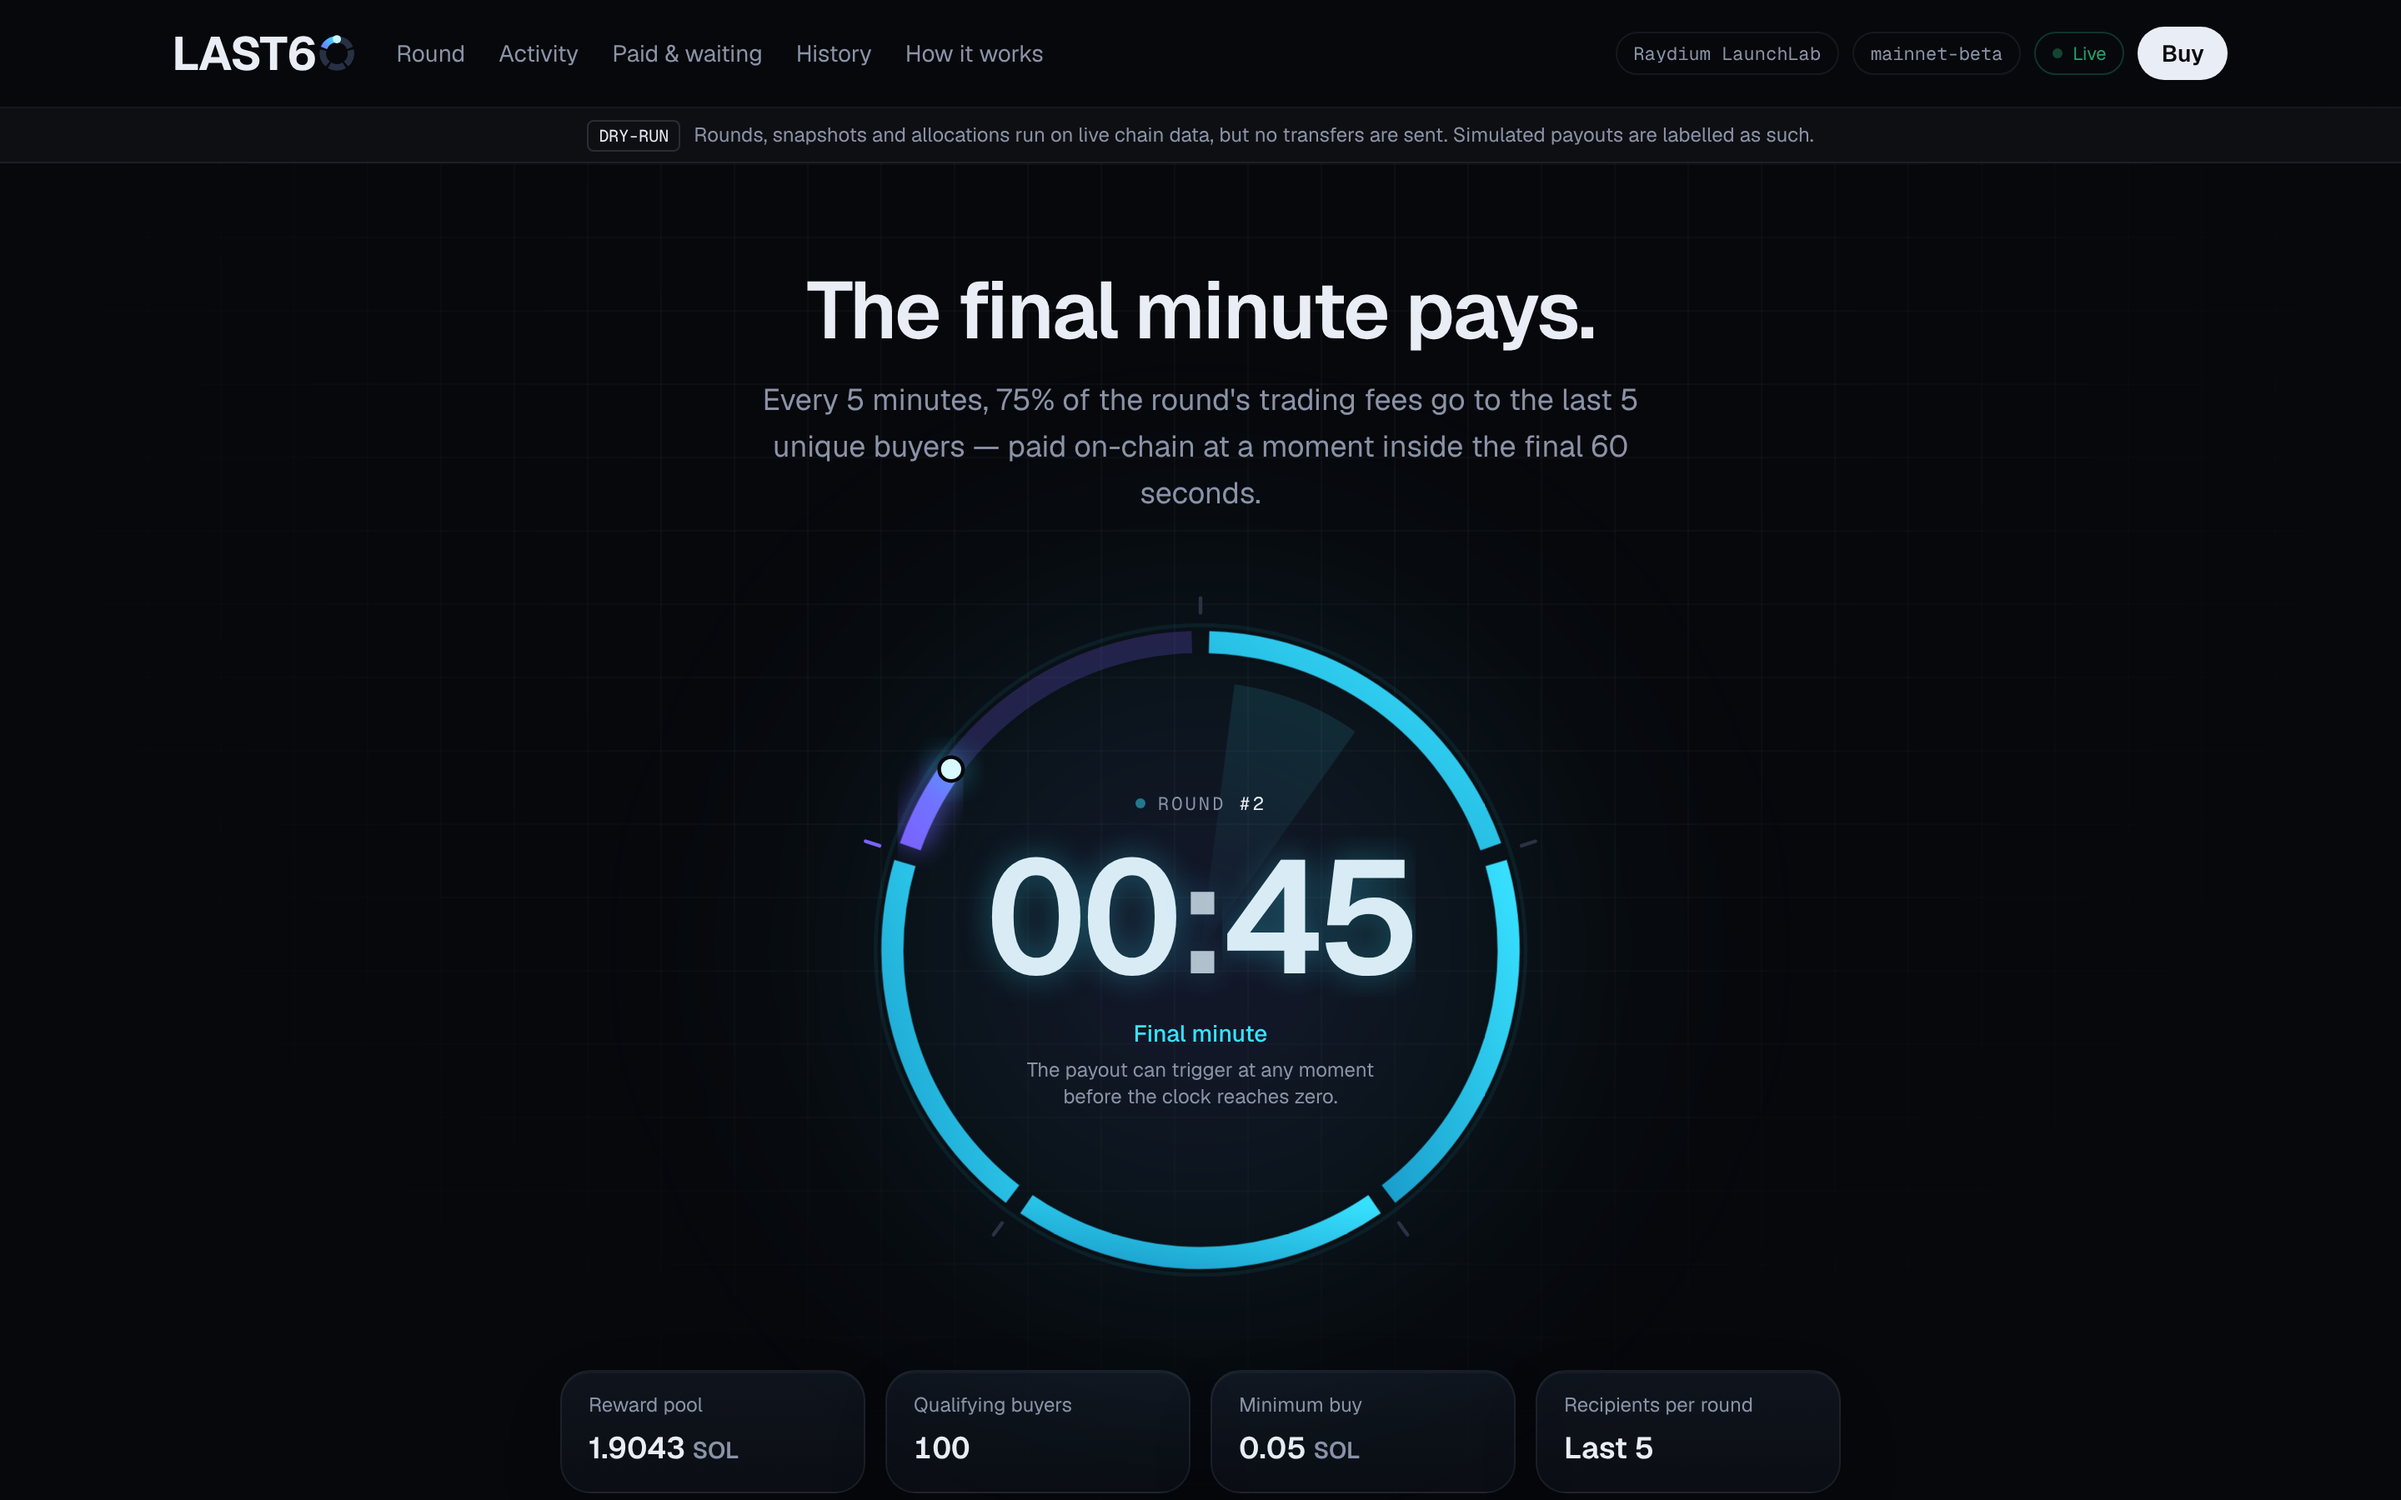
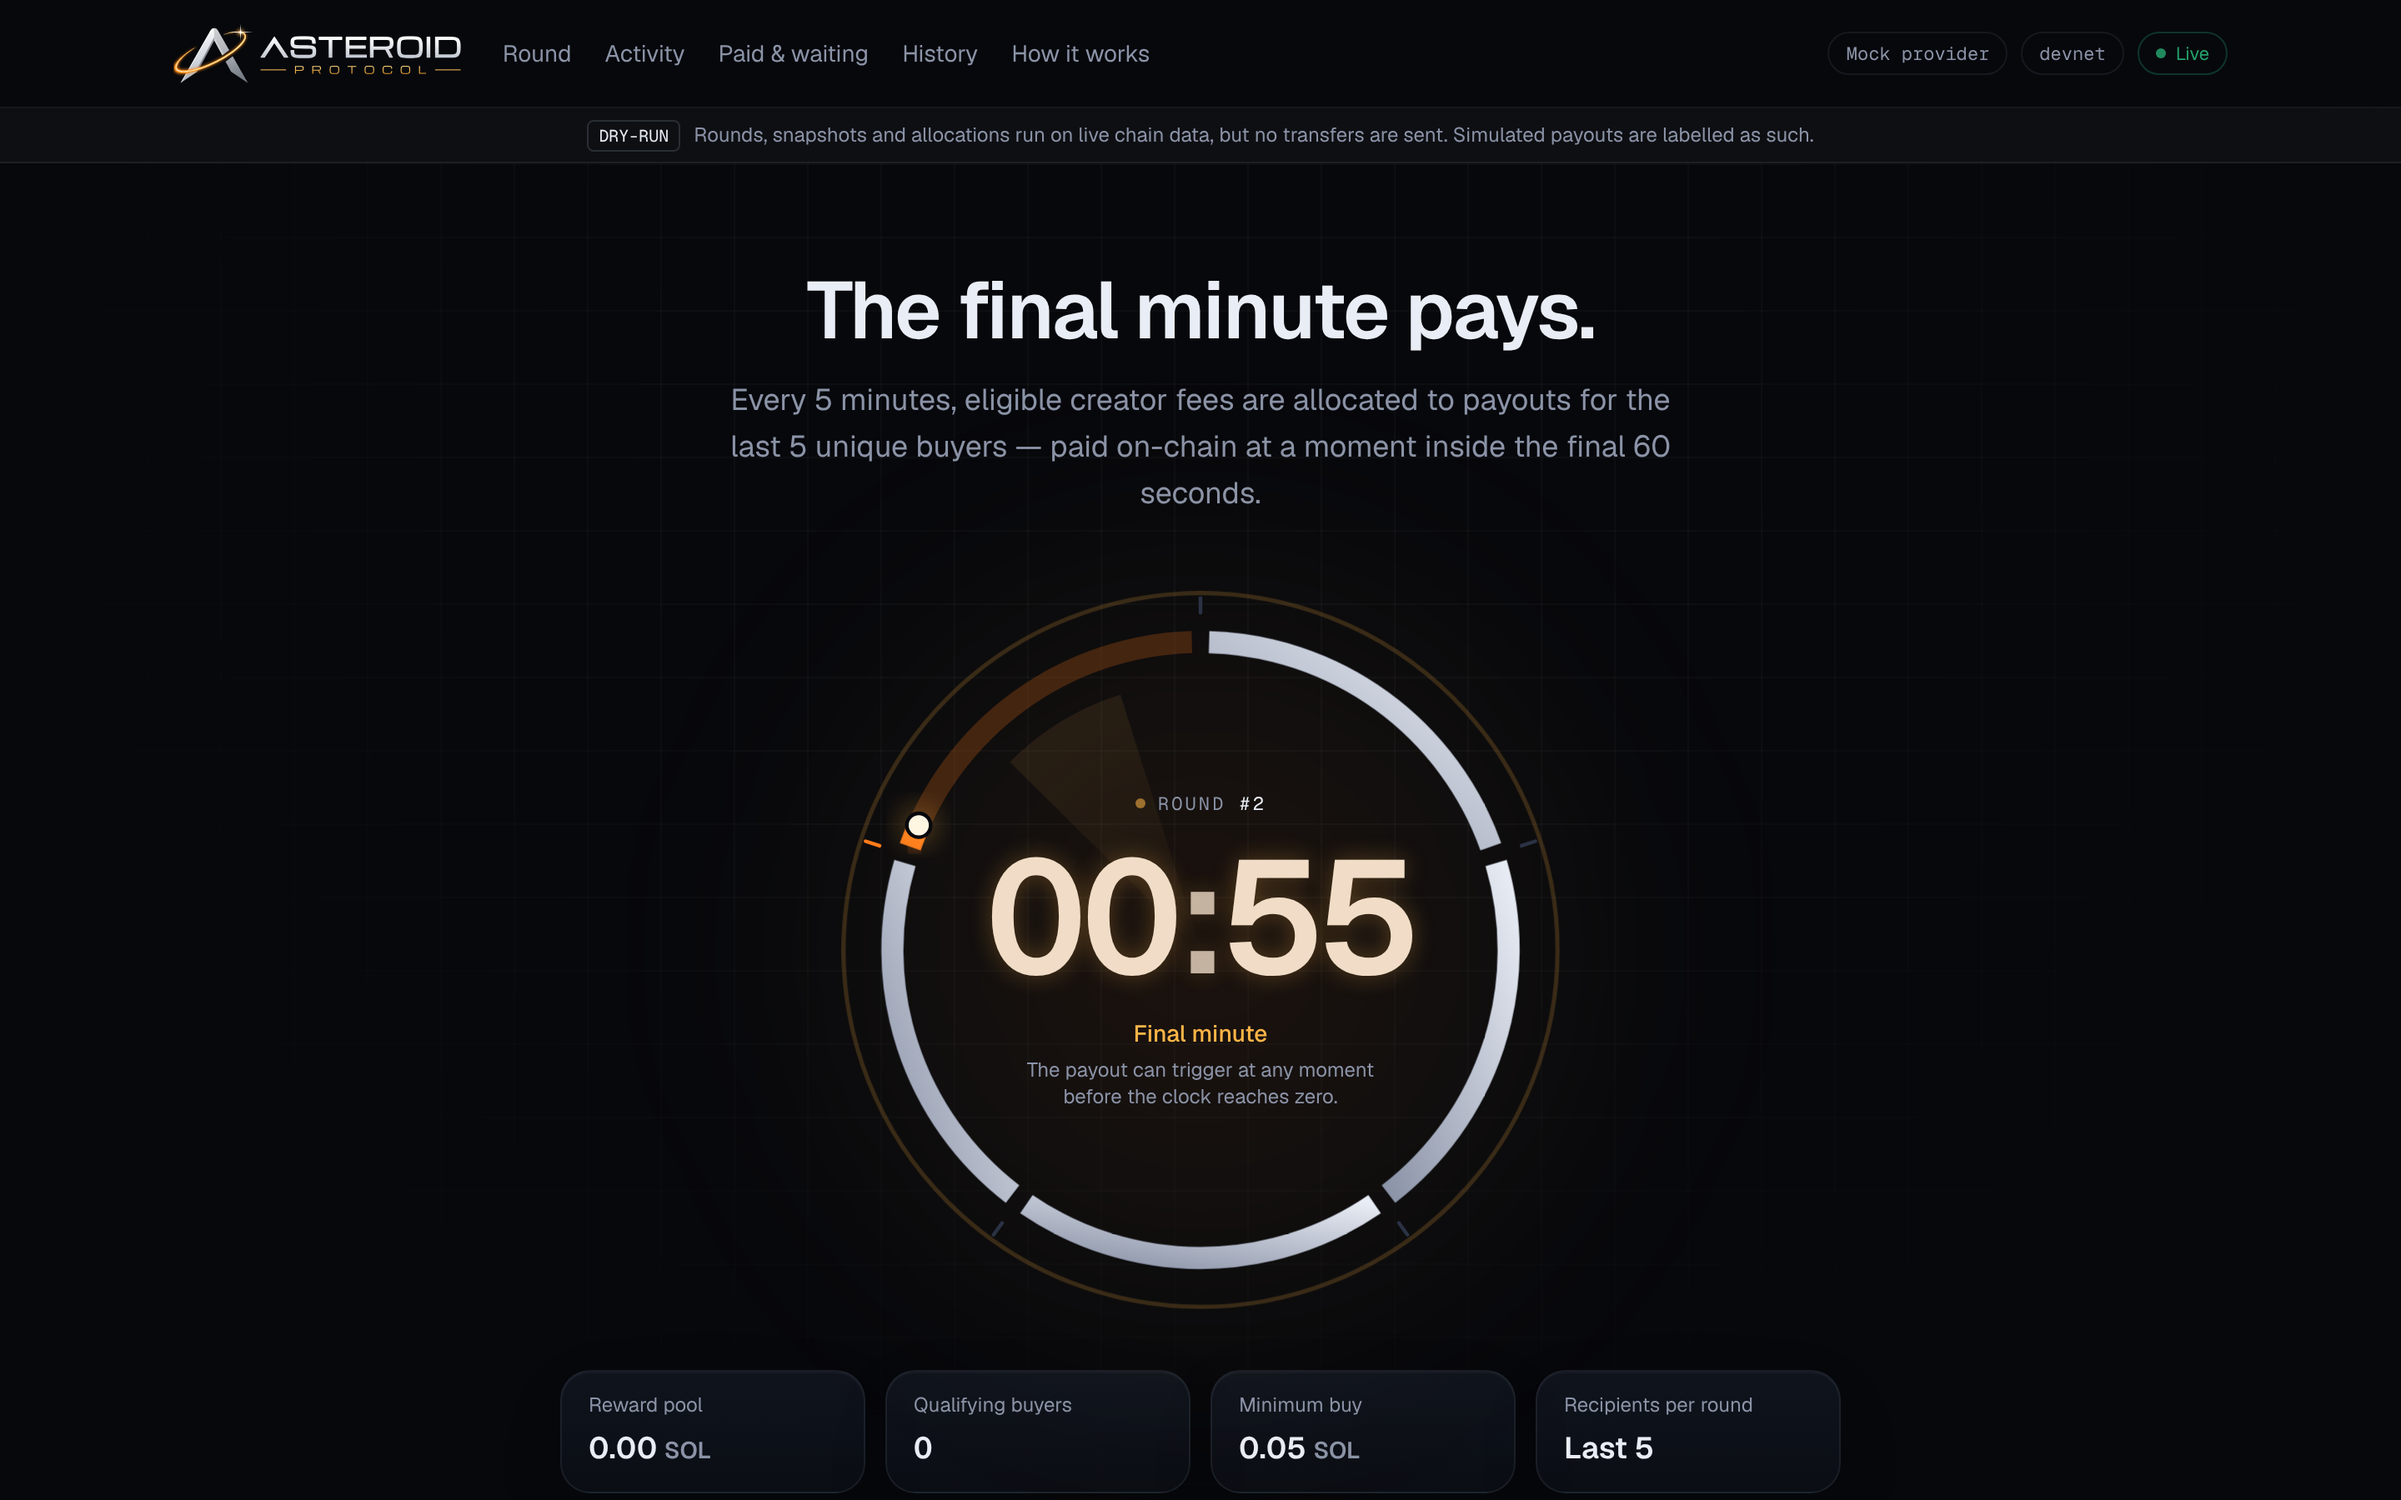
README: Asteroid Protocol header, rebrand note, new dashboard screenshots
The final-minute and mobile screenshots now show the new identity
(captured on an offline mock run: dry-run, no trades). The note lists
the identifiers that keep the last60 namespace and flags the remaining
screenshots as predating the rebrand.

Claude-Session: https://claude.ai/code/session_012h6hr7bEmkLvwCX6iy83gg

diff --git a/README.md b/README.md
@@ -1,4 +1,4 @@
-<p align="center"><img src="brand/logo-dark.svg" alt="LAST60" height="56"></p>
+<p align="center"><img src="brand/logo-dark.svg" alt="Asteroid Protocol" height="72"></p>
 
 <p align="center"><b>The final minute pays.</b><br>
 Every five minutes, eligible creator fees are allocated to on-chain payouts for the five most
@@ -6,6 +6,12 @@ recent unique buyers — at a moment inside the final 60 seconds chosen by a sec
 kept private until it happens. Payouts are based on verified creator fee allocations.</p>
 
 <p align="center"><img src="docs/screenshots/dashboard-final-minute.png" alt="Dashboard in the final minute" width="860"></p>
+
+> **Formerly LAST60.** The product is now **Asteroid Protocol** ([Brand](docs/BRAND.md)). Internal
+> identifiers keep the `last60` namespace so existing deployments, databases and on-chain records stay
+> valid: `LAST60_*` environment variables, the `last60:v1:` / `last60:custody:v1:` funding memos and
+> `last60:r…` payout memos, the `last60` database, stream ids such as `forge_platform_lp_last60_contribution`,
+> the `@last60/*` workspace packages and the `last60-*` PM2 process names.
 
 ---
 
@@ -17,10 +23,10 @@ kept private until it happens. Payouts are based on verified creator fee allocat
 | **Indexer** (`apps/worker` → `indexer`) | WebSocket fast path + gap-free cursor polling + backfill; idempotent ingestion; finality tracking and fork exclusion; v1-transaction aware. |
 | **Launch providers** | Meteora DBC and Raydium LaunchLab adapters from the official IDLs, validated on real mainnet data; switch with `LAUNCH_PROVIDER` (or live, from the admin console). Strictly verified graduation to Meteora DAMM v2 and Raydium CPMM with post-migration buyer tracking and creator-entitlement accounting. |
 | **Creator-fee accounting** | Only fees allocated to the creator by on-chain configuration and position ownership are counted; every record carries gross / allocated / excluded amounts, its allocation basis, evidence and payout eligibility ([Fee accounting](docs/FEE_ACCOUNTING.md)). |
-| **Phase-aware reward funding** | Forge's two-phase model kept as seven separate streams: bonding-curve creator fees (25 % creator / 75 % Last-60 of what is **collected**), CPMM creator fees (direct creator revenue, never funding) and Forge platform LP claims (50 % the creator's allocation, dedicated to Last-60 / 50 % Forge). Only **observed, finalized, correlated** transfers fund rounds, capped at the expected allocation, once, under the versioned `forge_phase_aware_v2` policy: into a Last-60 funding destination (same transaction or memo), or — for the creator's 50 % LP allocation — **Forge's existing post-migration payout to the creator's wallet**, attributed to exactly one verified harvest by launch-scoped, complete-index evidence, never by amount; anything ambiguous is recorded and never payable ([Reward funding](docs/REWARD_FUNDING.md)). |
+| **Phase-aware reward funding** | Forge's two-phase model kept as seven separate streams: bonding-curve creator fees (25 % creator / 75 % Asteroid Protocol of what is **collected**), CPMM creator fees (direct creator revenue, never funding) and Forge platform LP claims (50 % the creator's allocation, dedicated to Asteroid Protocol / 50 % Forge). Only **observed, finalized, correlated** transfers fund rounds, capped at the expected allocation, once, under the versioned `forge_phase_aware_v2` policy: into an Asteroid Protocol funding destination (same transaction or memo), or — for the creator's 50 % LP allocation — **Forge's existing post-migration payout to the creator's wallet**, attributed to exactly one verified harvest by launch-scoped, complete-index evidence, never by amount; anything ambiguous is recorded and never payable ([Reward funding](docs/REWARD_FUNDING.md)). |
 | **API** (`apps/api`) | Public REST + Server-Sent Events from whitelisted DTOs; wallet-signature admin API with audited, version-checked configuration. |
 | **Web** (`apps/web`, Next.js 16) | Countdown centerpiece with final-minute intensification, live reward pool, buyer feed, live engine terminal, payout history with Solscan links, stats and charts, admin console, brand page. |
-| **Brand** (`brand/`) | LAST60 identity — logo (light/dark), icon, favicons, social image, X banner, OG image. |
+| **Brand** (`brand/`) | Asteroid Protocol identity — logo (light/dark), icon, favicons, social image, X banner, OG image. |
 
 ## Quick start (local, no Docker)
 
@@ -124,8 +130,9 @@ an authorized small-value payout test — then follow the go-live sequence in
 (then claims, the 75 % settlement and post-migration sweeps are automatic — [Creator wallet](docs/CREATOR_WALLET.md));
 verify the creator key against the pool in dry-run first (`bun run cli creator-wallet`).
 
-> The dashboard screenshots in `docs/screenshots/` were captured before the copy change and still
-> show an older percentage headline; the live UI no longer advertises a fixed percentage.
+> `dashboard-final-minute.png` and `dashboard-mobile.png` in `docs/screenshots/` show the Asteroid Protocol
+> identity on an offline mock run (dry-run, no trades). The other dashboard screenshots predate the rebrand and the
+> copy change: they show the former LAST60 identity and an older percentage headline.
 
 ## Layout
 
